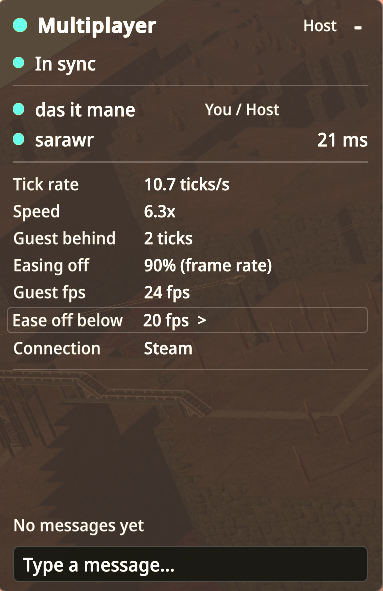
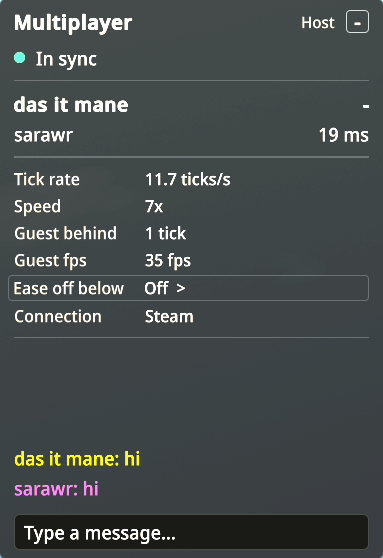
Docs: show the 1.1.10 connection panel and update the site to 1.1.10
The site's main image is the current connection panel, as the host sees it
in 1.1.10: plainer rows, the host's own row in bold, and chat in each
player's cursor color. The version is now 1.1.10 in the hero, the download
buttons, the facts strip and the install and troubleshooting pages (zip
name, checksum file, mod-list version and the log line).

The panel descriptions on the home and troubleshooting pages now match
1.1.10: a player's row is a name and a ping, ping is normal text up to
80 ms, and the one dot beside the status follows the sync status. The
README's image description matches the new screenshot.

diff --git a/docs/index.html b/docs/index.html
@@ -37,13 +37,13 @@
 <div class="hero">
   <div class="container hero-grid">
     <div>
-      <div class="eyebrow">Timberborn co-op mod &middot; v1.0.9</div>
+      <div class="eyebrow">Timberborn co-op mod &middot; v1.1.10</div>
       <h1>Build your colony together.</h1>
       <p class="lede">BeaverBuddies Stability Fork lets you and your friends run one Timberborn colony at the same time, with Steam friend invites, a live connection panel, and fixes for the crashes and desyncs that make multiplayer painful.</p>
       <div class="btn-row">
         <a class="btn btn-primary" href="https://github.com/timbermods/BeaverBuddies-Stability-Fork/releases/latest">
           <svg viewBox="0 0 24 24" fill="none" stroke="currentColor" stroke-width="2.2" stroke-linecap="round" stroke-linejoin="round" aria-hidden="true"><path d="M12 3v12m0 0l-4.5-4.5M12 15l4.5-4.5M4 20h16"/></svg>
-          Download 1.0.9
+          Download 1.1.10
         </a>
         <a class="btn btn-secondary" href="install.html">Read the install guide</a>
       </div>
@@ -51,8 +51,8 @@
     </div>
 
     <figure class="panel-demo">
-      <img class="panel-shot" src="assets/connection-panel.png" width="383" height="591" alt="Screenshot of the in-game connection panel as the host sees it: status In sync, players das it mane (You / Host) and sarawr at 21 ms, tick rate 10.7 ticks per second, speed 6.3x, connection Steam.">
-      <figcaption class="demo-caption">The in-game connection panel, as the host sees it during a Steam co-op session.</figcaption>
+      <img class="panel-shot" src="assets/connection-panel.png" width="383" height="558" alt="Screenshot of the in-game connection panel as the host sees it: status In sync, the host's own row das it mane in bold with a dash, sarawr at 19 ms, tick rate 11.7 ticks per second, speed 7x, 1 tick behind, connection Steam, and a chat with a yellow line from das it mane and a pink line from sarawr.">
+      <figcaption class="demo-caption">The in-game connection panel, as the host sees it during a Steam co-op session. Chat lines take each player's cursor color.</figcaption>
     </figure>
   </div>
 </div>
@@ -60,7 +60,7 @@
 <div class="facts">
   <div class="container">
     <ul>
-      <li><b>1.0.9</b><span>Latest release</span></li>
+      <li><b>1.1.10</b><span>Latest release</span></li>
       <li><b>Timberborn 1.1.2.4</b><span>Built and tested against</span></li>
       <li><b>Windows + Steam</b><span>Tested platform</span></li>
       <li><b>Two players</b><span>Tested group size</span></li>
@@ -181,11 +181,13 @@
       </div>
       <div>
         <ul>
-          <li><b>Ping</b> is the round trip to the host. <span style="color:var(--good)"><b>Green</b></span> is 80 ms or less, <span style="color:var(--warn)"><b>yellow</b></span> up to 160 ms, <span style="color:var(--bad)"><b>red</b></span> anything higher or no response.</li>
+          <li>Each player is a <b>name and a ping</b>, host first. Your own row is bold, with a dash where the ping would be.</li>
+          <li><b>Ping</b> is the round trip between you and that player. It is normal text at 80 ms or less, <span style="color:var(--warn)"><b>yellow</b></span> up to 160 ms, and <span style="color:var(--bad)"><b>red</b></span> for anything higher or no response.</li>
+          <li>The <b>dot</b> beside the status is <span style="color:var(--good)"><b>green</b></span> when you are in sync, <span style="color:var(--warn)"><b>yellow</b></span> while catching up or waiting for the host, and <span style="color:var(--bad)"><b>red</b></span> when the connection is unstable, out of sync or disconnected.</li>
           <li><b>Tick rate</b> and <b>speed</b> show how fast the simulation is really running, and guests see how many ticks they are <b>behind the host</b> (0 or 1 is normal).</li>
           <li><b>Connection</b> shows whether players are connected directly or through Steam.</li>
           <li>The host also sees how far behind the slowest guest is and the lowest <b>guest frame rate</b>, and can click <b>Ease off below</b> to slow the game a little while a guest stays under a frame rate (Off, 20, 30, 45 or 60 fps).</li>
-          <li>A <b>chat box</b> sits below the panel. Everyone sees messages in the same order, and a player who joins later gets the whole conversation.</li>
+          <li>A <b>chat box</b> sits below the panel. Everyone sees messages in the same order, and a player who joins later gets the whole conversation. Each line is drawn in the sender's cursor color.</li>
           <li><b>Click the title</b> to collapse it to a single line. Your choice is remembered.</li>
           <li>Hide it or move it to any corner in <b>Mod Settings</b>, or bind the optional <b>Toggle connection panel</b> key.</li>
         </ul>
@@ -309,7 +311,7 @@
         <p>Download the mod, follow the install guide, and send your friend an invite.</p>
       </div>
       <div class="btn-row">
-        <a class="btn btn-primary" href="https://github.com/timbermods/BeaverBuddies-Stability-Fork/releases/latest">Download 1.0.9</a>
+        <a class="btn btn-primary" href="https://github.com/timbermods/BeaverBuddies-Stability-Fork/releases/latest">Download 1.1.10</a>
         <a class="btn btn-secondary" href="install.html">Install guide</a>
       </div>
     </div>

diff --git a/docs/install.html b/docs/install.html
@@ -72,7 +72,7 @@
       <ol class="steps compact">
         <li>
           <h3>Download</h3>
-          <p>Go to the <a href="https://github.com/timbermods/BeaverBuddies-Stability-Fork/releases/latest">latest release</a> and download <code>BeaverBuddies-Stability-Fork-1.0.9.zip</code>. The release also has a <code>1.0.9-SHA256SUMS.txt</code> file if you want to check the download.</p>
+          <p>Go to the <a href="https://github.com/timbermods/BeaverBuddies-Stability-Fork/releases/latest">latest release</a> and download <code>BeaverBuddies-Stability-Fork-1.1.10.zip</code>. The release also has a <code>1.1.10-SHA256SUMS.txt</code> file if you want to check the download.</p>
         </li>
         <li>
           <h3>Close Timberborn</h3>
@@ -101,16 +101,16 @@
         <strong class="label">Updating from an earlier download?</strong>
         <p>Earlier downloads used a folder named <code>BeaverBuddies-StabilityPreview</code>. Delete it from <code>Mods</code> before you copy in the new folder. The two share a mod ID, so having both would conflict.</p>
       </div>
-      <p>To check the download, open PowerShell in the folder you saved it to and compare the result with <code>1.0.9-SHA256SUMS.txt</code>:</p>
-      <pre><code>Get-FileHash .\BeaverBuddies-Stability-Fork-1.0.9.zip -Algorithm SHA256</code></pre>
+      <p>To check the download, open PowerShell in the folder you saved it to and compare the result with <code>1.1.10-SHA256SUMS.txt</code>:</p>
+      <pre><code>Get-FileHash .\BeaverBuddies-Stability-Fork-1.1.10.zip -Algorithm SHA256</code></pre>
     </section>
 
     <section id="verify">
       <h2>Check it loaded</h2>
       <ul>
-        <li>The mod list shows <b>BeaverBuddies - Stability Fork</b> with version <b>1.0.9</b>.</li>
+        <li>The mod list shows <b>BeaverBuddies - Stability Fork</b> with version <b>1.1.10</b>.</li>
         <li>The main menu has a <b>Join co-op game</b> button.</li>
-        <li>Your game log, <code>%USERPROFILE%\AppData\LocalLow\Mechanistry\Timberborn\Player.log</code>, contains the line <code>BeaverBuddies v1.0.9 is loaded!</code></li>
+        <li>Your game log, <code>%USERPROFILE%\AppData\LocalLow\Mechanistry\Timberborn\Player.log</code>, contains the line <code>BeaverBuddies v1.1.10 is loaded!</code></li>
       </ul>
       <p>If it is not there, see <a href="troubleshooting.html#not-loading">The mod does not load</a>.</p>
     </section>

diff --git a/docs/troubleshooting.html b/docs/troubleshooting.html
@@ -75,7 +75,7 @@
             <li>Make sure <b>Harmony</b> and <b>Mod Settings</b> are installed and enabled. The mod needs both.</li>
             <li>Enable <b>BeaverBuddies - Stability Fork</b> in the mod manager and restart the game.</li>
             <li>The mod is built for Timberborn 1.1 (tested on 1.1.2.4). Older game versions will not run it.</li>
-            <li>Open <code>%USERPROFILE%\AppData\LocalLow\Mechanistry\Timberborn\Player.log</code> and search for <code>BeaverBuddies v1.0.9 is loaded!</code>. If it is there, the mod loaded and the problem is elsewhere.</li>
+            <li>Open <code>%USERPROFILE%\AppData\LocalLow\Mechanistry\Timberborn\Player.log</code> and search for <code>BeaverBuddies v1.1.10 is loaded!</code>. If it is there, the mod loaded and the problem is elsewhere.</li>
           </ol>
         </div>
       </details>
@@ -194,7 +194,7 @@
               </tbody>
             </table>
           </div>
-          <p>Ping colors: green is 80 ms or less, yellow up to 160 ms, red anything higher or no response.</p>
+          <p>Ping colors: normal text is 80 ms or less, yellow up to 160 ms, red anything higher or no response. The dot beside the status is green when you are in sync, yellow while catching up or waiting for the host, and red when the connection is unstable, out of sync or disconnected.</p>
         </div>
       </details>
 

diff --git a/README.md b/README.md
@@ -64,7 +64,7 @@ Steam friend invites are a first-class way to play, alongside direct IP.
 
 A small panel appears in the top-left corner during a multiplayer game.
 
-<img src="docs/assets/connection-panel.png" width="280" alt="Screenshot of the in-game connection panel as the host sees it: In sync, two players with one at 21 ms, tick rate 10.7 ticks per second, speed 6.3x, the host pacing lines, a Steam connection and a chat box.">
+<img src="docs/assets/connection-panel.png" width="280" alt="Screenshot of the in-game connection panel as the host sees it: In sync, the host's own row in bold with a dash and one guest at 19 ms, tick rate 11.7 ticks per second, speed 7x, the host pacing lines, a Steam connection and a chat with two colored lines.">
 
 *The panel as the host sees it during a Steam co-op session.*
 
